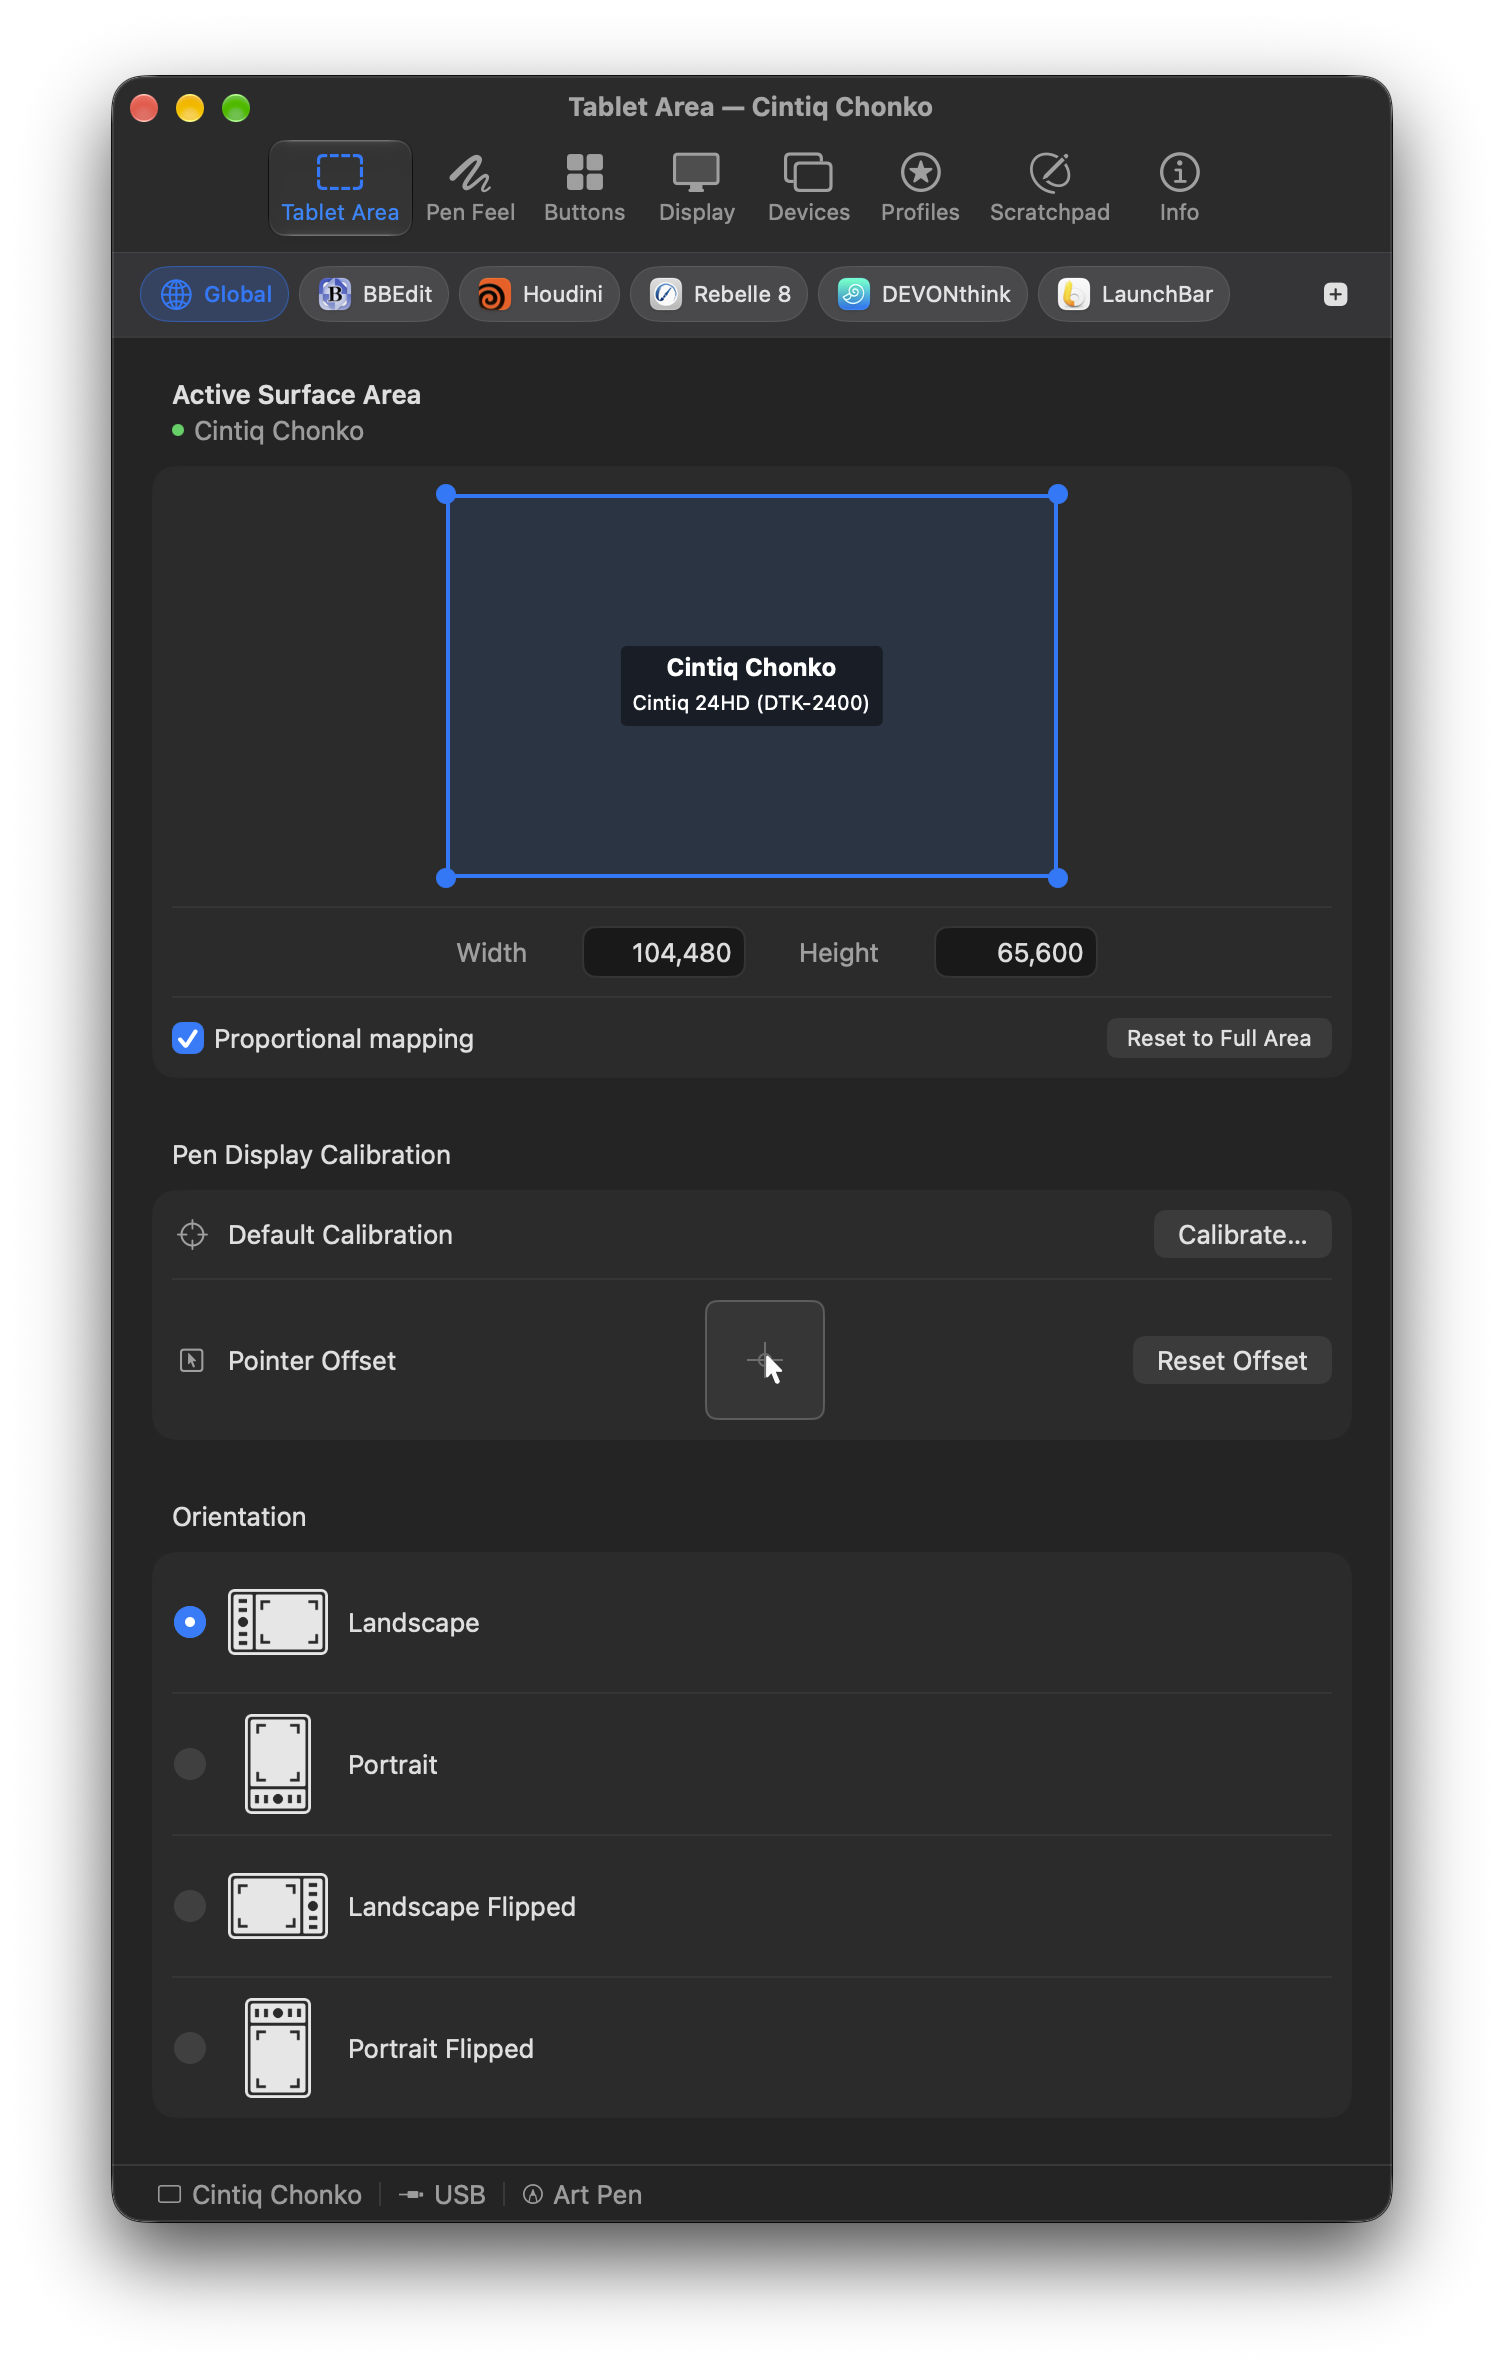
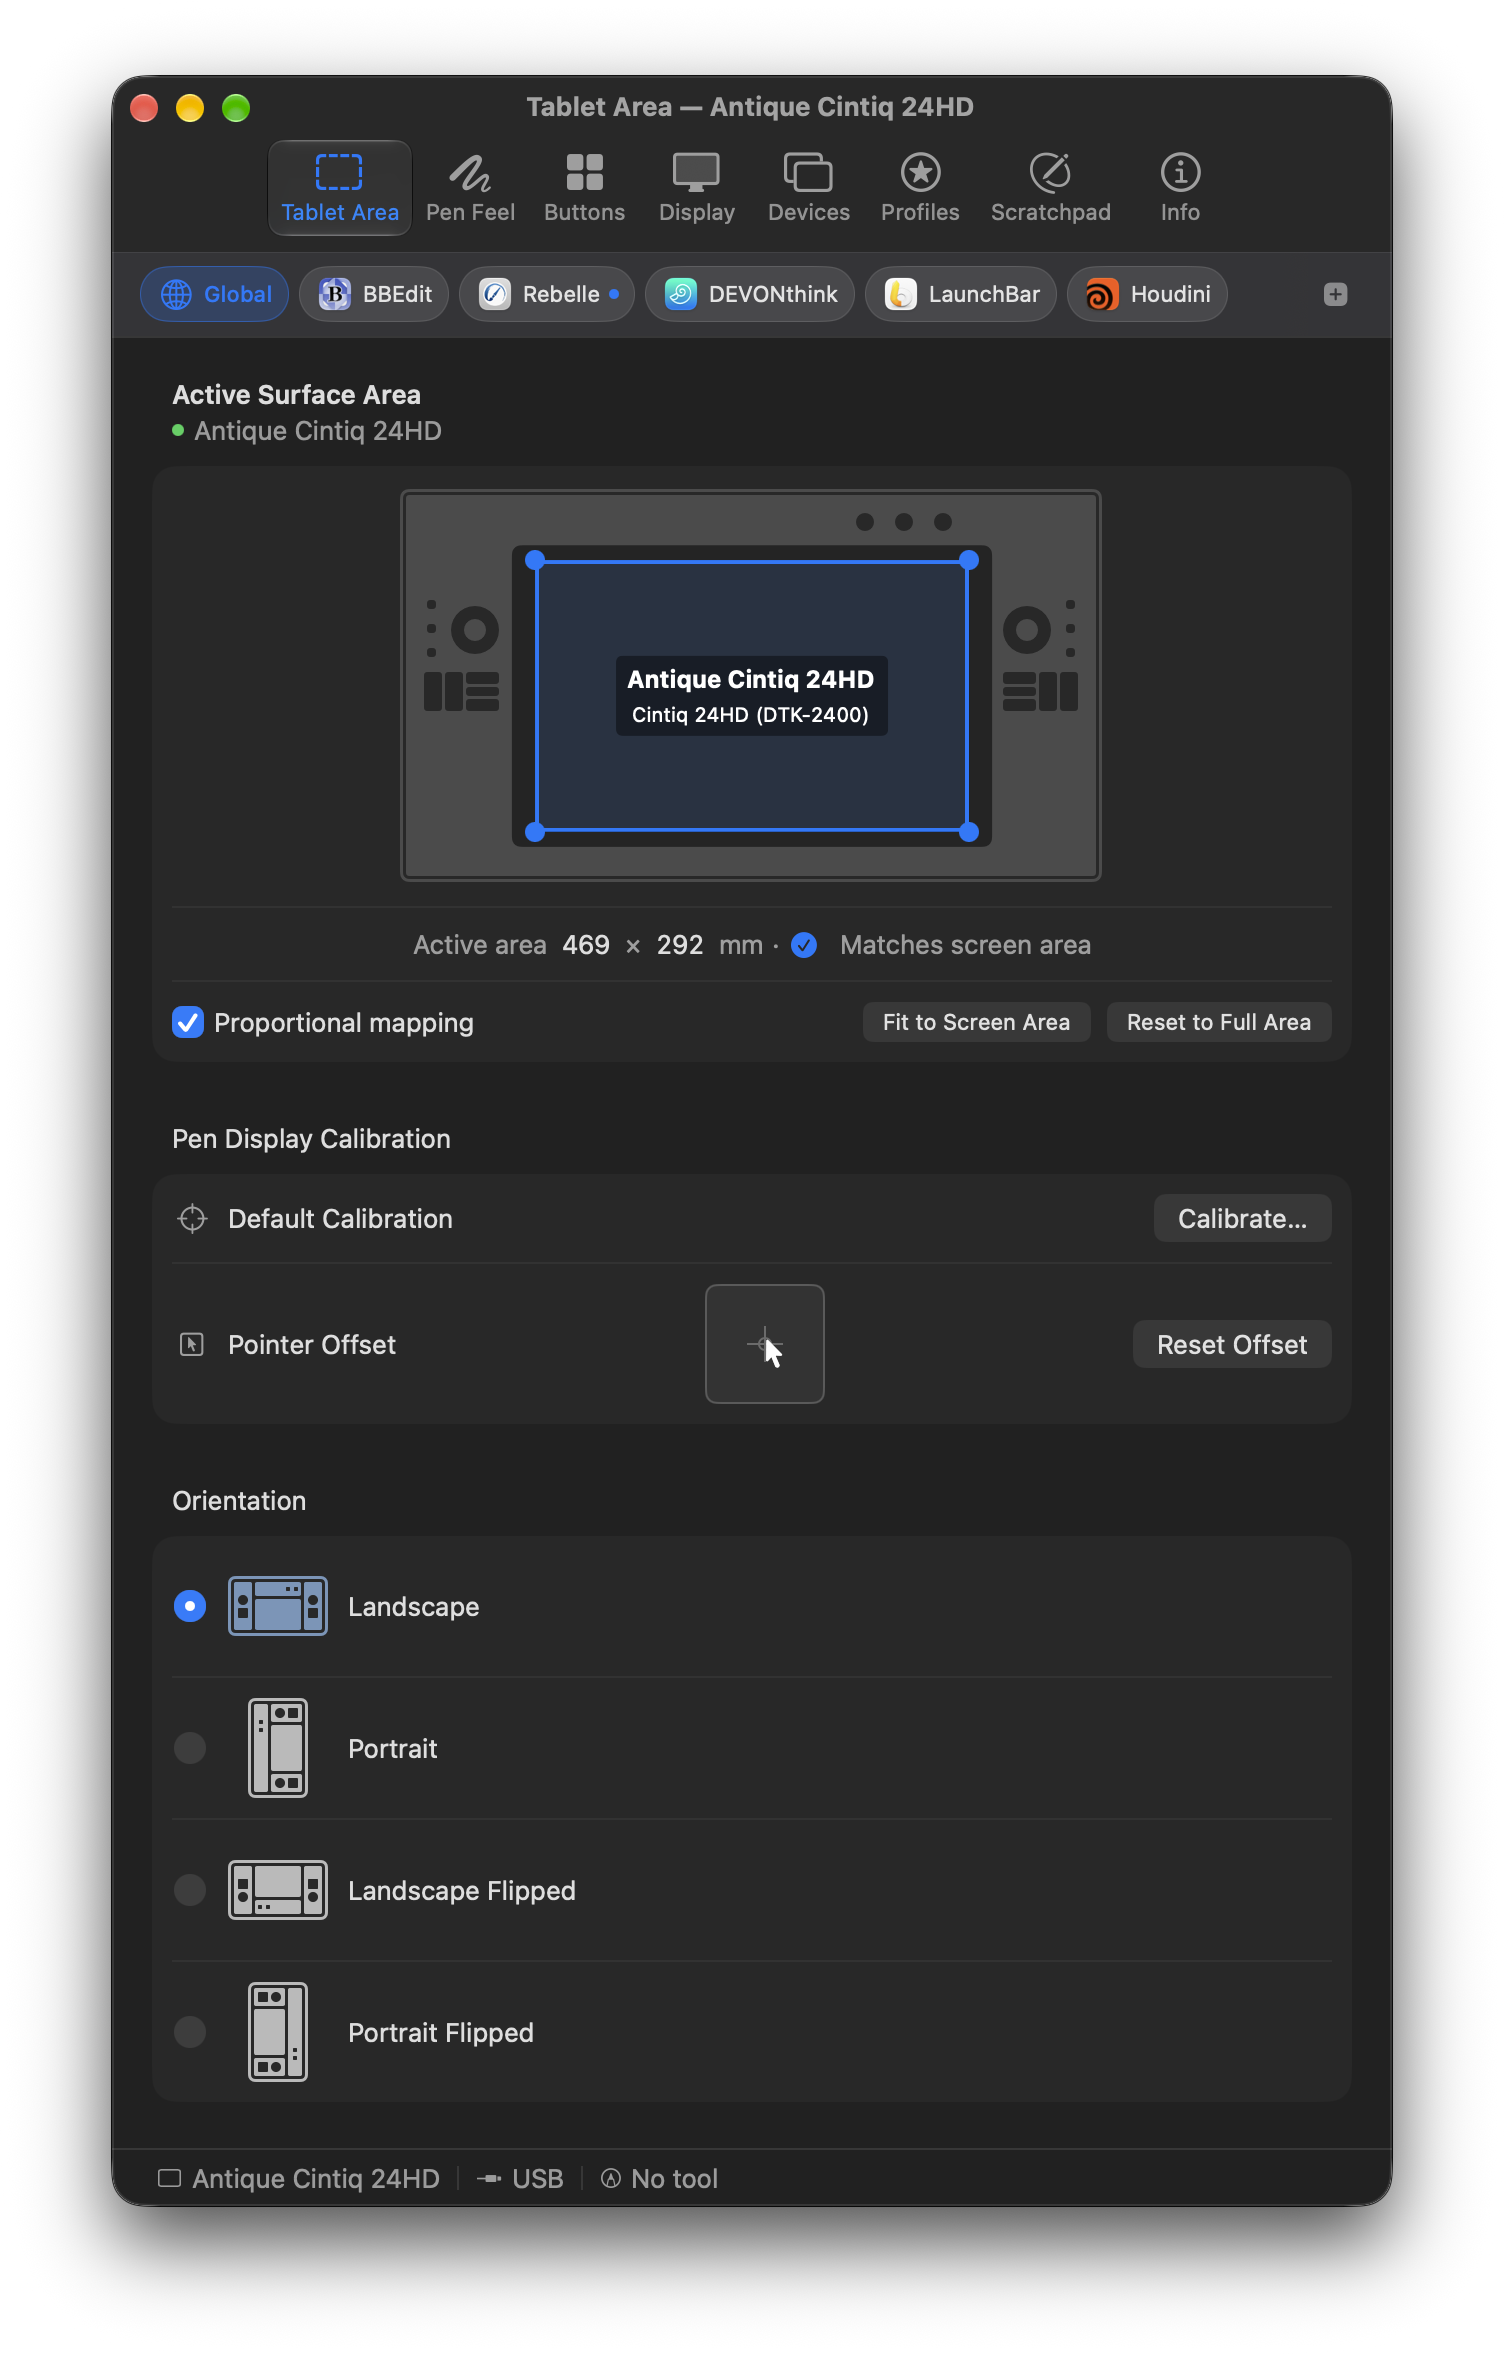
Update website images

diff --git a/index.html b/index.html
@@ -205,7 +205,7 @@
 			<a class="cta" href="https://github.com/Cyzor/tablet-driver/releases/">Download for Mac</a> <a class="cta secondary" href="/hardware.html">See supported tablets</a> 
 		</p>
 		<div class="shot-wrap" style="margin-top: 48px">
-			<img class="shot light" src="images/ui/tablet-area-tall-light.png" width="717" height="1165" alt="MockTab tablet area settings" /> <img class="shot dark" src="images/ui/tablet-area-tall-dark.png" width="717" height="1165" alt="MockTab tablet area settings (dark)" /> 
+			<img class="shot light" src="images/ui/tablet-area-light.png" width="717" height="1165" alt="MockTab tablet area settings" /> <img class="shot dark" src="images/ui/tablet-area-dark.png" width="717" height="1165" alt="MockTab tablet area settings (dark)" /> 
 		</div>
 	</section>
 	<section class="wrap">
